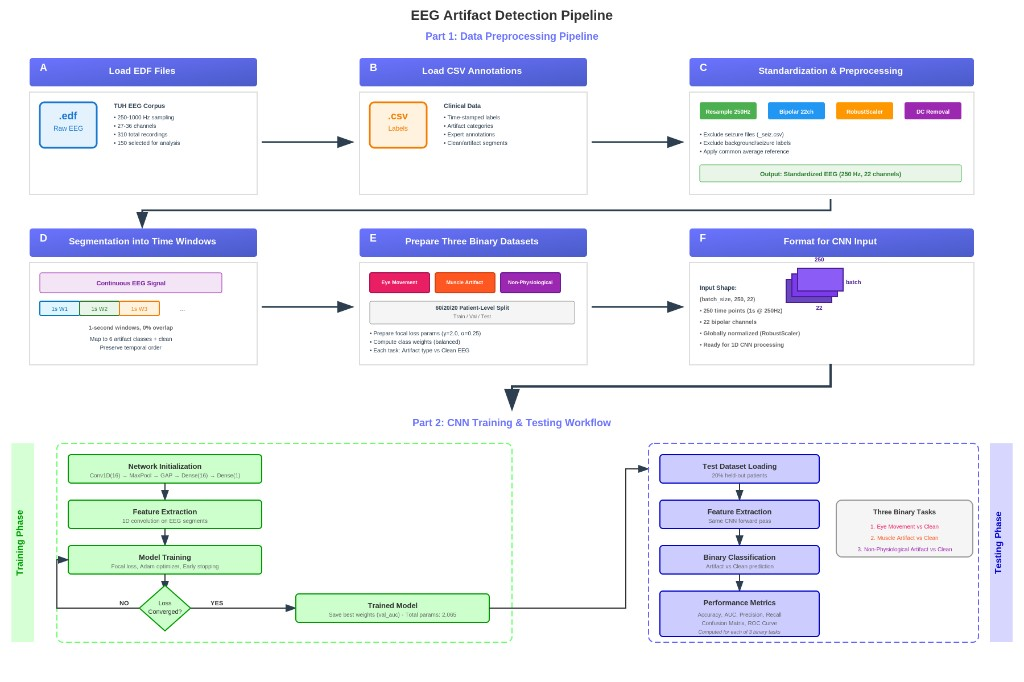
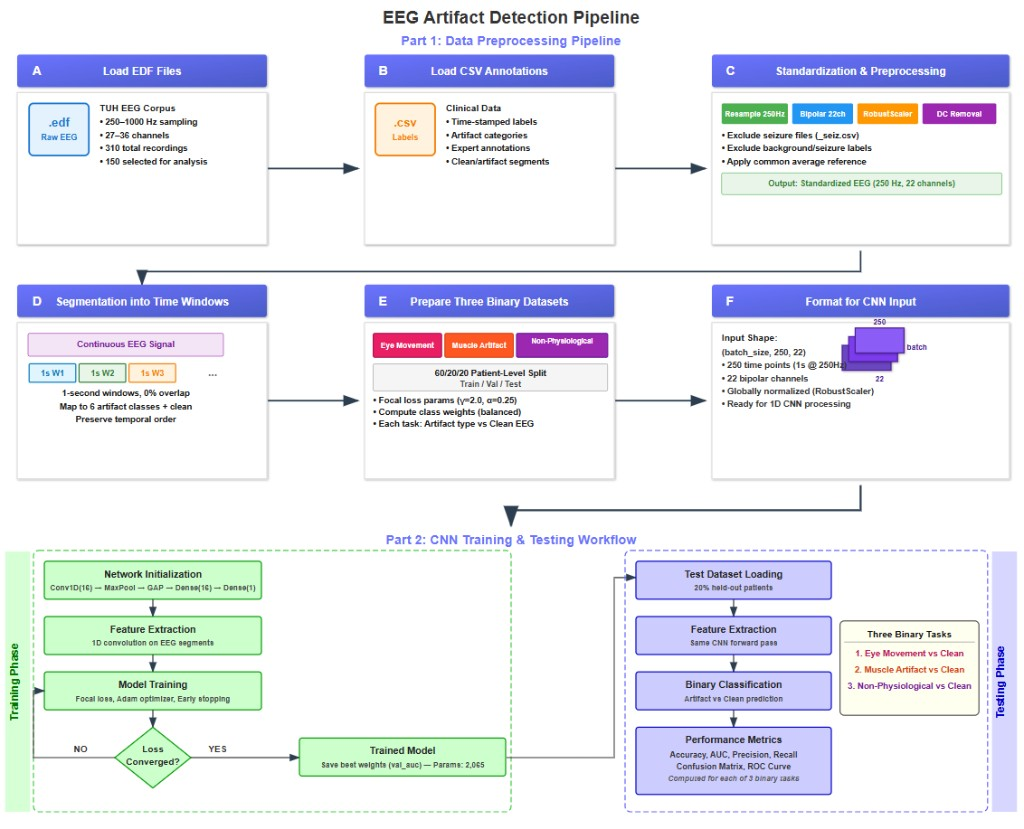
Use updated pipeline diagram with larger readable fonts
Made-with: Cursor

diff --git a/README.md b/README.md
@@ -4,7 +4,7 @@
 ![Python Version](https://img.shields.io/badge/python-3.9%2B-blue)
 
 <p align="center">
-  <img src="DOCS/images/pipeline_overview.svg" alt="EEG Artifact Detection Pipeline Overview" width="100%"/>
+  <img src="DOCS/images/pipeline_overview.png" alt="EEG Artifact Detection Pipeline Overview" width="100%"/>
 </p>
 <p align="center"><em>End-to-end EEG artifact detection pipeline: data preprocessing (Part 1) and CNN training and testing workflow (Part 2).</em></p>
 
